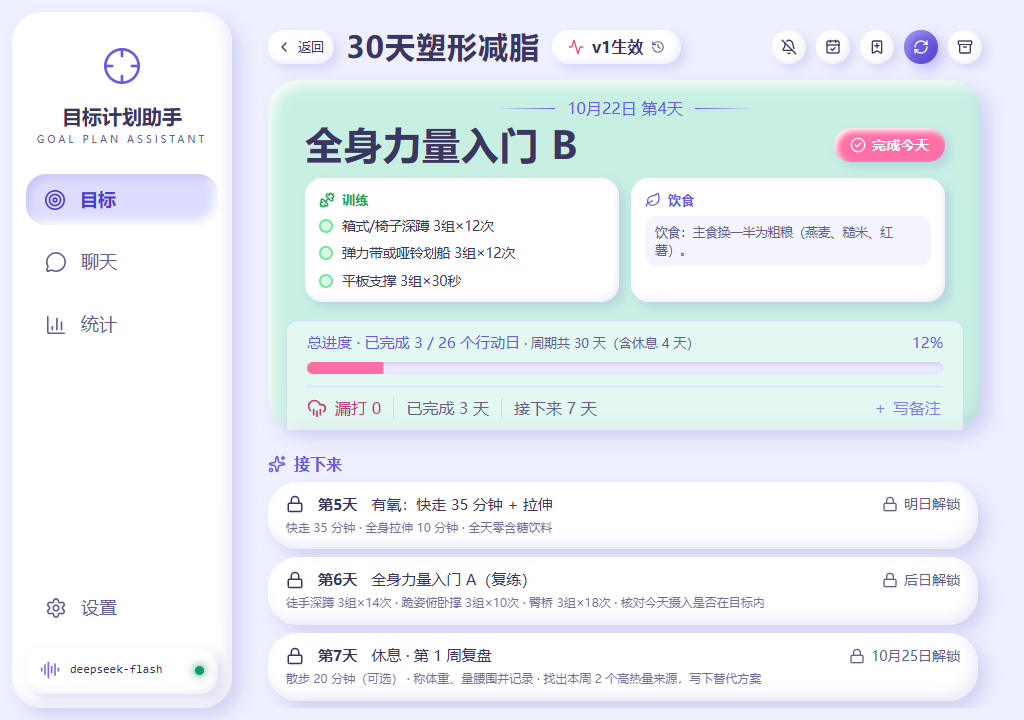
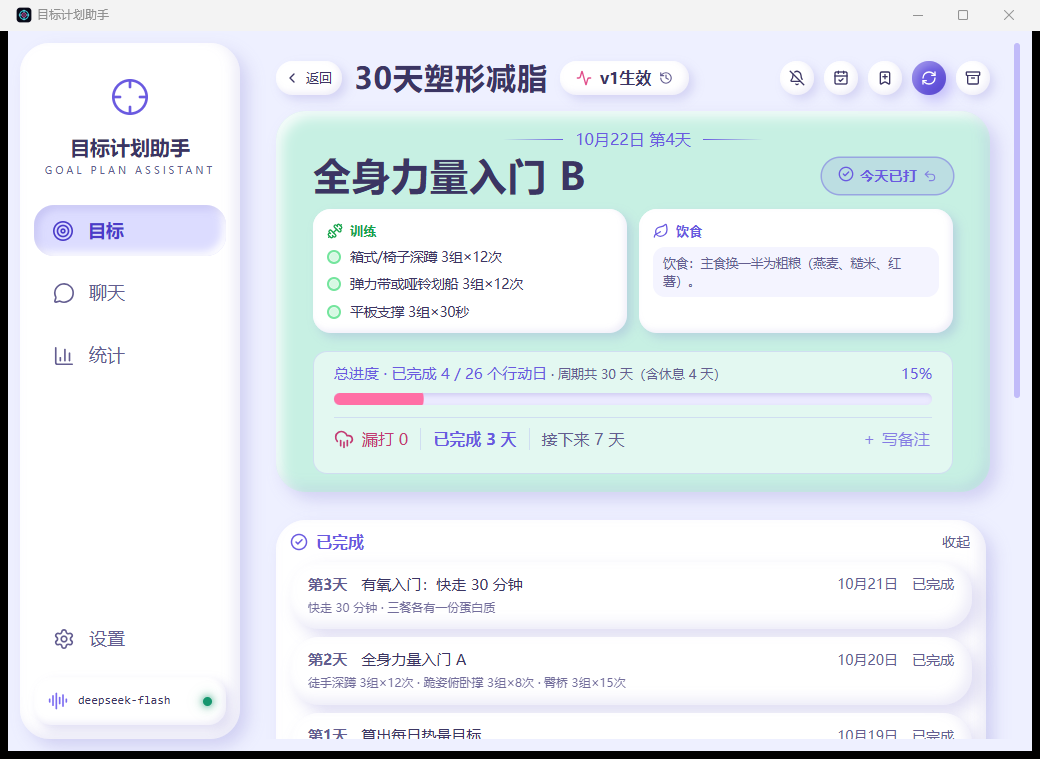
chore: bump version to 0.2.1
详情页：接下来日期解锁、软圆角列表面板、今天卡底圆弧留白、进度条与训练/饮食同宽；更新黏土风详情截图。

Changed region(s): [[0.0, 0.0, 1.0, 1.0], [0.1875, 0.9167, 0.2188, 0.9472]]

diff --git a/README.md b/README.md
@@ -139,7 +139,7 @@ cd src-tauri && cargo test   # 后端单元测试
 npm run tauri build
 ```
 
-NSIS 安装包输出到 `src-tauri/target/release/bundle/nsis/目标计划助手_0.2.0_x64-setup.exe`。
+NSIS 安装包输出到 `src-tauri/target/release/bundle/nsis/目标计划助手_0.2.1_x64-setup.exe`。
 
 ### 技术栈
 
